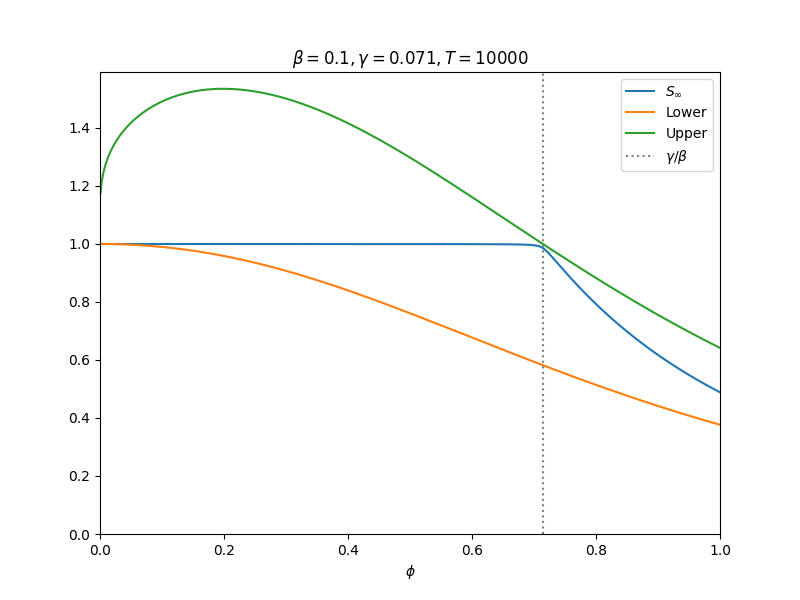
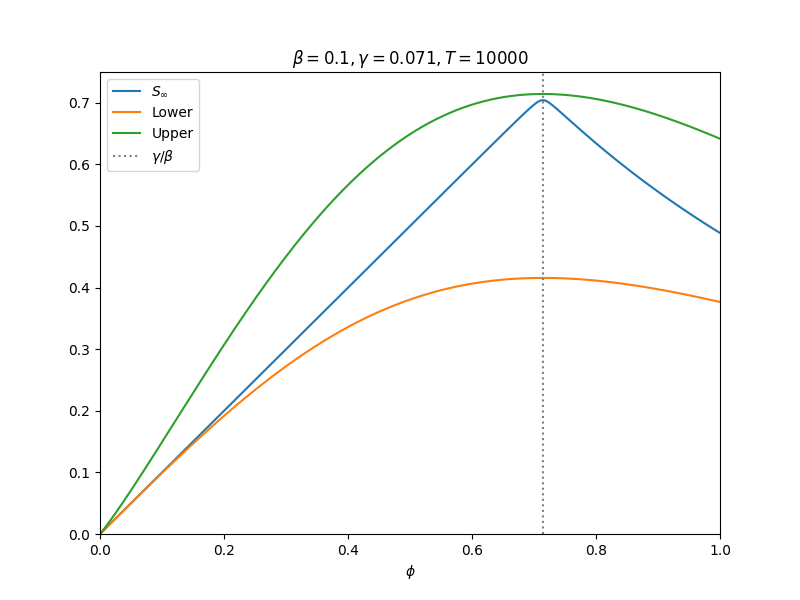
upper lower bound comparison

diff --git a/POA.py b/POA.py
@@ -448,20 +448,13 @@ def plot_area(beta, gamma, S, I, t_range, S_peak, i, t_vac, payment_ratio, S_are
 
 
 def tmp():
-	phi_range = np.arange(0.001, 1, 0.001)
-	beta = 1
+	beta1 = 1
+	beta2 = 1
 	gamma = 1 / 14
-	epsilon = 0.5
-	T = 100
-	areas = []
-	for phi in phi_range:
-		area = phi * T - 1 / (2 * beta * epsilon) * (1 - gamma / (1 - epsilon) / (beta * phi)) * (
-				1 + epsilon * gamma / beta / phi)
-		areas.append(area)
-	fig = plt.figure()
-	ax1 = fig.add_subplot()
-	ax1.plot(phi_range, areas)
-	plt.show()
+	PR = 2
+	NE = PR / (np.exp(beta1 / gamma) - beta1 / gamma)
+	OPT = PR * gamma / beta1 + gamma / beta2
+	print(OPT / NE)
 	return
 
 
@@ -664,10 +657,10 @@ def S_infinity_comparison(beta, gamma, t_vac):
 		S0 = phi
 		I0 = I0_global * S0
 		S1, I1, t_range = simulate(beta, gamma, S0, I0_global, t_vac, False, num_steps=100000)
-		S_infinity.append(S1[-1] / phi)
-		S_lower.append(1 / (np.exp(phi * beta / gamma) - phi * beta / gamma))
+		S_infinity.append(S1[-1])
+		S_lower.append(phi / (np.exp(phi * beta / gamma) - phi * beta / gamma))
 		S_upper.append(
-			(phi * beta / gamma - np.log(phi * beta / gamma)) /
+			phi * (phi * beta / gamma - np.log(phi * beta / gamma)) /
 			(phi * beta / gamma +
 			 np.exp(phi * beta / gamma) * (phi * beta / gamma - 1 - np.log(phi * beta / gamma))))
 
@@ -702,13 +695,13 @@ def main():
 	# area_comparison()
 	# group_peak_searcher()
 
-	# tmp()
-	S_infinity_comparison(0.1, 1 / 14, 10000)
-	S_infinity_comparison(0.25, 1 / 14, 10000)
-	S_infinity_comparison(0.5, 1 / 14, 10000)
-	S_infinity_comparison(1, 1 / 14, 10000)
-	S_infinity_comparison(2, 1 / 14, 10000)
-	S_infinity_comparison(5, 1 / 14, 10000)
+	tmp()
+	# S_infinity_comparison(0.1, 1 / 14, 10000)
+	# S_infinity_comparison(0.25, 1 / 14, 10000)
+	# S_infinity_comparison(0.5, 1 / 14, 10000)
+	# S_infinity_comparison(1, 1 / 14, 10000)
+	# S_infinity_comparison(2, 1 / 14, 10000)
+	# S_infinity_comparison(5, 1 / 14, 10000)
 	return
 
 
